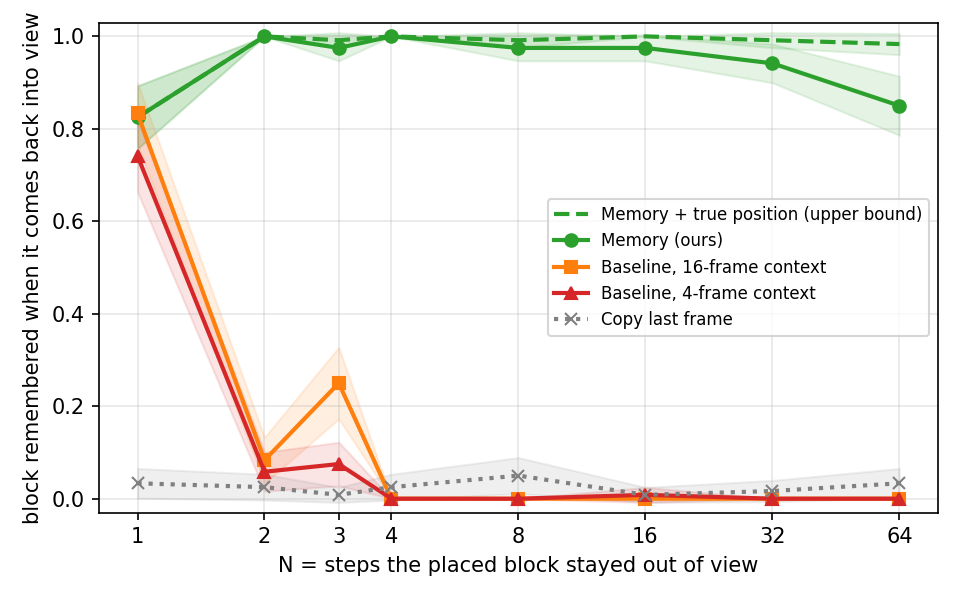
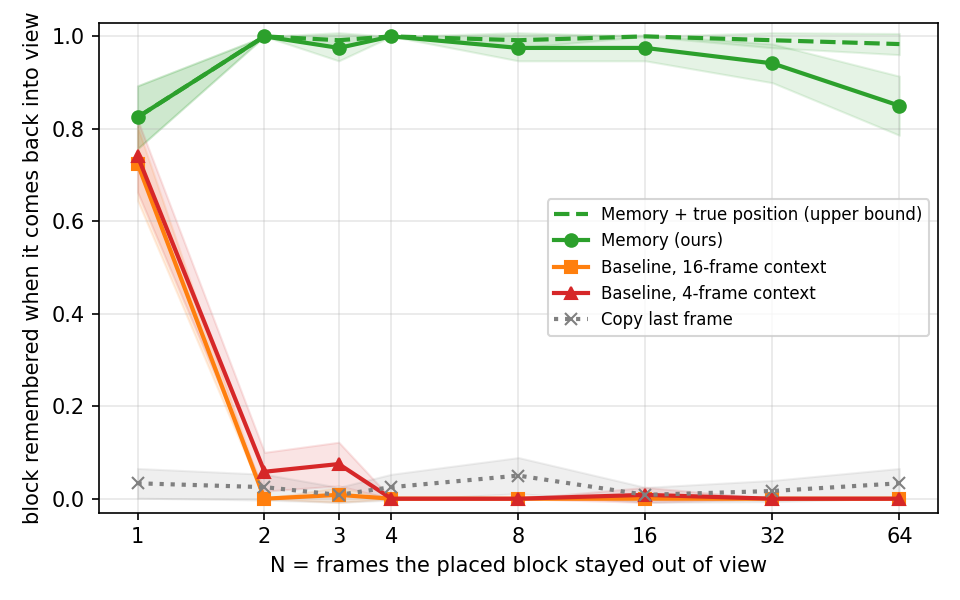
edit readme

Changed region(s): [[0.125, 0.15, 0.4062, 0.84], [0.2812, 0.93, 0.8125, 0.96]]

diff --git a/scripts/make_readme_figure.py b/scripts/make_readme_figure.py
@@ -13,7 +13,7 @@ import numpy as np  # noqa: E402
 LINES = [  # (results.csv의 config, 범례, 스타일)
     ('memory_aligned_v3@80000+oracle_pos', 'Memory + true position (upper bound)', dict(color='#2ca02c', ls='--', marker='')),
     ('memory_aligned_v3@80000', 'Memory (ours)', dict(color='#2ca02c', marker='o')),
-    ('baseline_k16@80000', 'Baseline, 16-frame context', dict(color='#ff7f0e', marker='s')),
+    ('baseline_v2_k16@80000', 'Baseline, 16-frame context', dict(color='#ff7f0e', marker='s')),
     ('baseline_v2@80000', 'Baseline, 4-frame context', dict(color='#d62728', marker='^')),
     ('-', 'Copy last frame', dict(color='gray', marker='x', ls=':')),
 ]
@@ -39,7 +39,7 @@ for cfg, label, style in LINES:
 ax.set_xscale('log', base=2)
 ax.set_xticks(Ns, [str(n) for n in Ns])
 ax.set_ylim(-0.03, 1.03)
-ax.set_xlabel('N = steps the placed block stayed out of view')
+ax.set_xlabel('N = frames the placed block stayed out of view')
 ax.set_ylabel('block remembered when it comes back into view')
 ax.grid(alpha=0.3)
 ax.legend(fontsize=8, loc='center right')

diff --git a/src/scenarios.py b/src/scenarios.py
@@ -22,6 +22,7 @@ import argparse
 import multiprocessing as mp
 import pathlib
 import sys
+import zlib
 
 import numpy as np
 
@@ -92,7 +93,7 @@ def find_change(run, kind, rng):
 
 def generate(args):
   kind, N, idx, K = args
-  seed = SEED_BASE + hash((kind, N, idx)) % 10_000_000
+  seed = SEED_BASE + zlib.crc32(f'{kind}/{N}/{idx}'.encode()) % 10_000_000  # hash()는 실행마다 달라 재현되지 않는다
   rng = np.random.default_rng(seed)
   env = CrafterEnv(seed=seed, length=10000)
   env.reset()

diff --git a/README.md b/README.md
@@ -1,18 +1,19 @@
 # Persistent Crafter World Model
 
 키보드로 플레이할 수 있는 신경망 Crafter(action-conditioned world model)를 만들고, **플레이어가 바꾼 세계를 시야 밖에 나갔다 돌아왔을 때도 기억하는지** 측정한 프로젝트.
-짧은 context만 보는 모델은 설치한 블록이 시야에서 4스텝만 벗어나도 **0%** 기억하지만, 위치 기반 memory를 붙이면 64스텝 뒤에도 **85%**(위치를 정확히 알면 98%)를 기억함
+
+짧은 context만 보는 모델은 설치한 블록이 시야에서 4프레임만 벗어나도 **0%** 기억하지만, 위치 기반 memory를 붙이면 **같은 길로 돌아올 때** 64프레임 뒤에도 **85%**(위치를 정확히 알면 98%)를 기억함
 
 <img src="assets/demo.gif" width="760">
 
-돌을 놓고(1) 왼쪽으로 8칸 갔다가 같은 길로 돌아오는 같은 키 입력. 시작 16프레임만 실제 Crafter이고, 이후는 각 모델의 출력만으로 진행. Baseline은 돌과 나무를 잊고, Memory는 기억함
+돌을 놓고 왼쪽으로 8칸 갔다가 같은 길로 돌아오는 같은 키 입력. 시작 16프레임만 실제 Crafter이고, 이후는 각 모델의 출력만으로 진행. 두 모델의 차이가 드러나는 seed를 고른 예시
 
 ## Architecture
 
 ```
 과거 4프레임 ─────────────────────────────┐
 행동 → Embedding → AdaGN (모든 블록) ───────┼→ UNet (72→36→18→9, 9×9 self-attention) → 다음 프레임
-Memory: 다음 시야와 가장 많이 겹치는 과거 프레임 │
+Memory: 새로 드러나는 줄을 담은 최근 과거 프레임 │
         → 위치 차이만큼 8px 단위로 정렬 → [RGB, 유효 마스크, 나이] ┘
 위치 추정: 모델이 그린 다음 프레임이 8px 밀렸는지로 이동 성공을 판정해 누적
 ```
@@ -20,45 +21,31 @@ Memory: 다음 시야와 가장 많이 겹치는 과거 프레임 │
 - **환경**: Crafter 72×72 렌더링(타일 1칸 = 8px), 낮밤 고정(밤의 랜덤 노이즈가 지표를 오염시킴)
 - **데이터**: 랜덤 + 스크립트 정책(설치·채집 → 멀리 이동 → 같은 길로 복귀) 30만 프레임
 - **World Model**: 결정론적 UNet(16.9M), 과거 4프레임 + 행동으로 다음 프레임 예측. 손실 = MSE + L1
-- **Memory**: 매 스텝 (위치, 프레임)을 저장하고, 다음에 새로 드러나는 줄을 담은 가장 최근 과거 프레임을 검색해 현재 시야에 정렬해서 입력. 위치는 정답이 아니라 모델이 그린 화면에서 추정하므로 baseline과 같은 정보(프레임 + 행동)만 사용
-- **설치·채집 학습**: 바뀌는 칸이 화면의 1.2%라 처음엔 변화를 전혀 그리지 못함(0%) → 상호작용 성공·실패 장면을 배치에 섞고, 바뀐 칸과 실패 장면의 대상 칸에 손실 가중치(×11)
-- **평가**: 실제 Crafter에서 검증한 재방문 시나리오 1,920개(설치·채집·대조군 × N 8가지). 타일 판정은 텍스처 템플릿 매칭(실제 프레임에서 100% 일치)
+- **Memory**: 매 스텝 (위치, 프레임)을 저장하고, 검색한 과거 프레임을 현재 시야에 정렬해서 입력. 위치는 정답을 쓰지 않고 모델이 그린 화면에서 추정
+- **설치·채집 학습**: 바뀌는 칸이 화면의 1.2%라 처음엔 변화를 전혀 그리지 못함(0%) → 상호작용 장면을 배치에 섞고 바뀐 칸에 손실 가중치(×11). Memory 모델은 실패 장면의 대상 칸에도 같은 가중치 적용
+- **평가**: 실제 Crafter에서 검증한 재방문 시나리오 1,920개(설치·채집·대조군 × N 8가지). 타일 판정은 텍스처 템플릿 매칭
 
 ## Results
+
+N은 블록이 시야 밖에 있던 프레임 수. 기록된 행동을 재생해 **같은 길로 돌아오는 평가**이고, 변화 직후까지의 실제 프레임에서 시작. 값은 돌·table 설치 960개(N당 120개)의 평균, 그림의 음영은 95% 구간
 
 <img src="assets/forgetting_curve.png" width="560">
 
 | 다시 보인 순간 블록을 기억한 비율, N | 1 | 2 | 3 | 4 | 8 | 16 | 32 | 64 |
 |---|---|---|---|---|---|---|---|---|
 | Baseline, 4-frame context | 0.74 | 0.06 | 0.07 | 0.00 | 0.00 | 0.01 | 0.00 | 0.00 |
-| Baseline, 16-frame context | 0.83 | 0.08 | 0.25 | 0.00 | 0.00 | 0.00 | 0.00 | 0.00 |
+| Baseline, 16-frame context | 0.72 | 0.00 | 0.01 | 0.00 | 0.00 | 0.00 | 0.00 | 0.00 |
 | **Memory** | 0.82 | **1.00** | **0.97** | **1.00** | **0.97** | **0.97** | **0.94** | **0.85** |
 | Memory + 실제 위치 (상한) | 0.82 | 1.00 | 0.99 | 1.00 | 0.99 | 1.00 | 0.99 | 0.98 |
 
-- **망각은 context 길이에서 즉시 일어남**: baseline은 바꾼 블록이 context 밖으로 밀려나면(N≥4) 원래 재질(풀)로 다시 그림
-- **context를 늘려도 해결되지 않음**: 16프레임 context는 블록이 context 안에 있어도(N=4~15) 0%. 플레이어가 움직여 옛 프레임 속 위치가 어긋난 정보를 스스로 가져오지 못함
-- **정렬된 memory가 해결**: 정렬 없이 원본 프레임 + 위치 차이만 주면 N=64에서 0.65~0.75로 떨어지고, 검색 규칙이 바뀌면 크게 흔들림
-- **긴 N의 남은 실패는 위치 오류**: 위치가 맞으면 0.99 이상, 틀리면 0. 위치 오류의 대부분은 모델이 길 위에 없던 물·돌·나무를 지어내 그 세계 안에서 "막힘"으로 그린 경우
-- **설치도 모델이 직접 그림**: 변화 직전부터 rollout해도 같은 곡선(N=64에서 0.84). 실패한 설치(재료 부족 등)를 그리는 비율 0~1%
-
-## 한계
-
-- 결정론적 모델이라 처음 보는 영역은 단순한 풀밭으로 그리는 경향(나무·물이 사라짐). 이 상상 오류가 긴 N의 위치 오류로 이어짐
-- 짧은 N(1~3)에서 baseline이 context 속 블록을 다시 가져오는 능력은 학습 run마다 크게 다름 (seed 간 최대 0.16 차이)
-- 평가 단순화를 위해 낮으로 고정해 원본 Crafter보다 좀비가 적음
-
-## 실행 방법
-
-```bash
-conda env create -f environment.yml && conda activate pcwm
-
-python src/collect.py                                   # 학습 데이터 30만 프레임
-python src/scenarios.py                                 # 재방문 평가 시나리오
-python src/interact_index.py && python src/memory_index.py --rule recent
-
-python src/train.py --config configs/memory_aligned_v3.yaml   # memory 모델 (RTX 5060 Ti 약 3.5시간)
-python src/train.py --config configs/baseline_v2.yaml         # baseline
-python src/eval_revisit.py --model outputs/memory_aligned_v3/last.pt
-
-python src/web_demo.py                                  # 브라우저 데모 http://localhost:8765
-```
+- **Baseline은 빠르게 잊음**: 블록이 context 안에 남아 있는 N=2부터 대부분 잊고, N≥4에서는 0%. 잊을 때는 원래 재질(풀)을 선명하게 그림
+- **context를 늘려도 해결되지 않음**: 16프레임 context는 블록이 context 안에 있는 N=4, 8에서도 0%. 플레이어 이동으로 옛 프레임 속 위치가 어긋나기 때문으로 추정
+- **Memory의 효과**: N≥2에서 0.85 이상 유지
+- **남은 실패는 대부분 위치 오류**: N≥2에서 위치가 맞으면 0.99 이상, 틀리면 거의 0
+- **설치도 모델이 직접 그림**: 변화 직전부터 시작해도 거의 같은 곡선(N=64에서 0.84)
+- **한계**
+  - 모델 세계에서 스스로 길을 찾아 돌아오면 Memory의 유지율은 N=64에서 약 0.5로 떨어짐. 처음 가 보는 위치로 돌아올 때 변화 전 프레임을 검색하는 것이 주된 원인
+  - 학습 데이터에도 같은 길로 돌아오는 정책이 포함됨 (맵 seed는 겹치지 않음)
+  - 처음 보는 영역은 풀밭으로 몰아서 그리는 경향 (나무는 거의 그리지 않고, 물은 실제의 절반 수준)
+  - Memory 모델은 학습 seed 1개의 결과이고, 평가 시나리오를 다시 생성하면 수치가 달라질 수 있음
+  - 평가 단순화를 위해 낮으로 고정해 원본 Crafter보다 좀비가 적음
